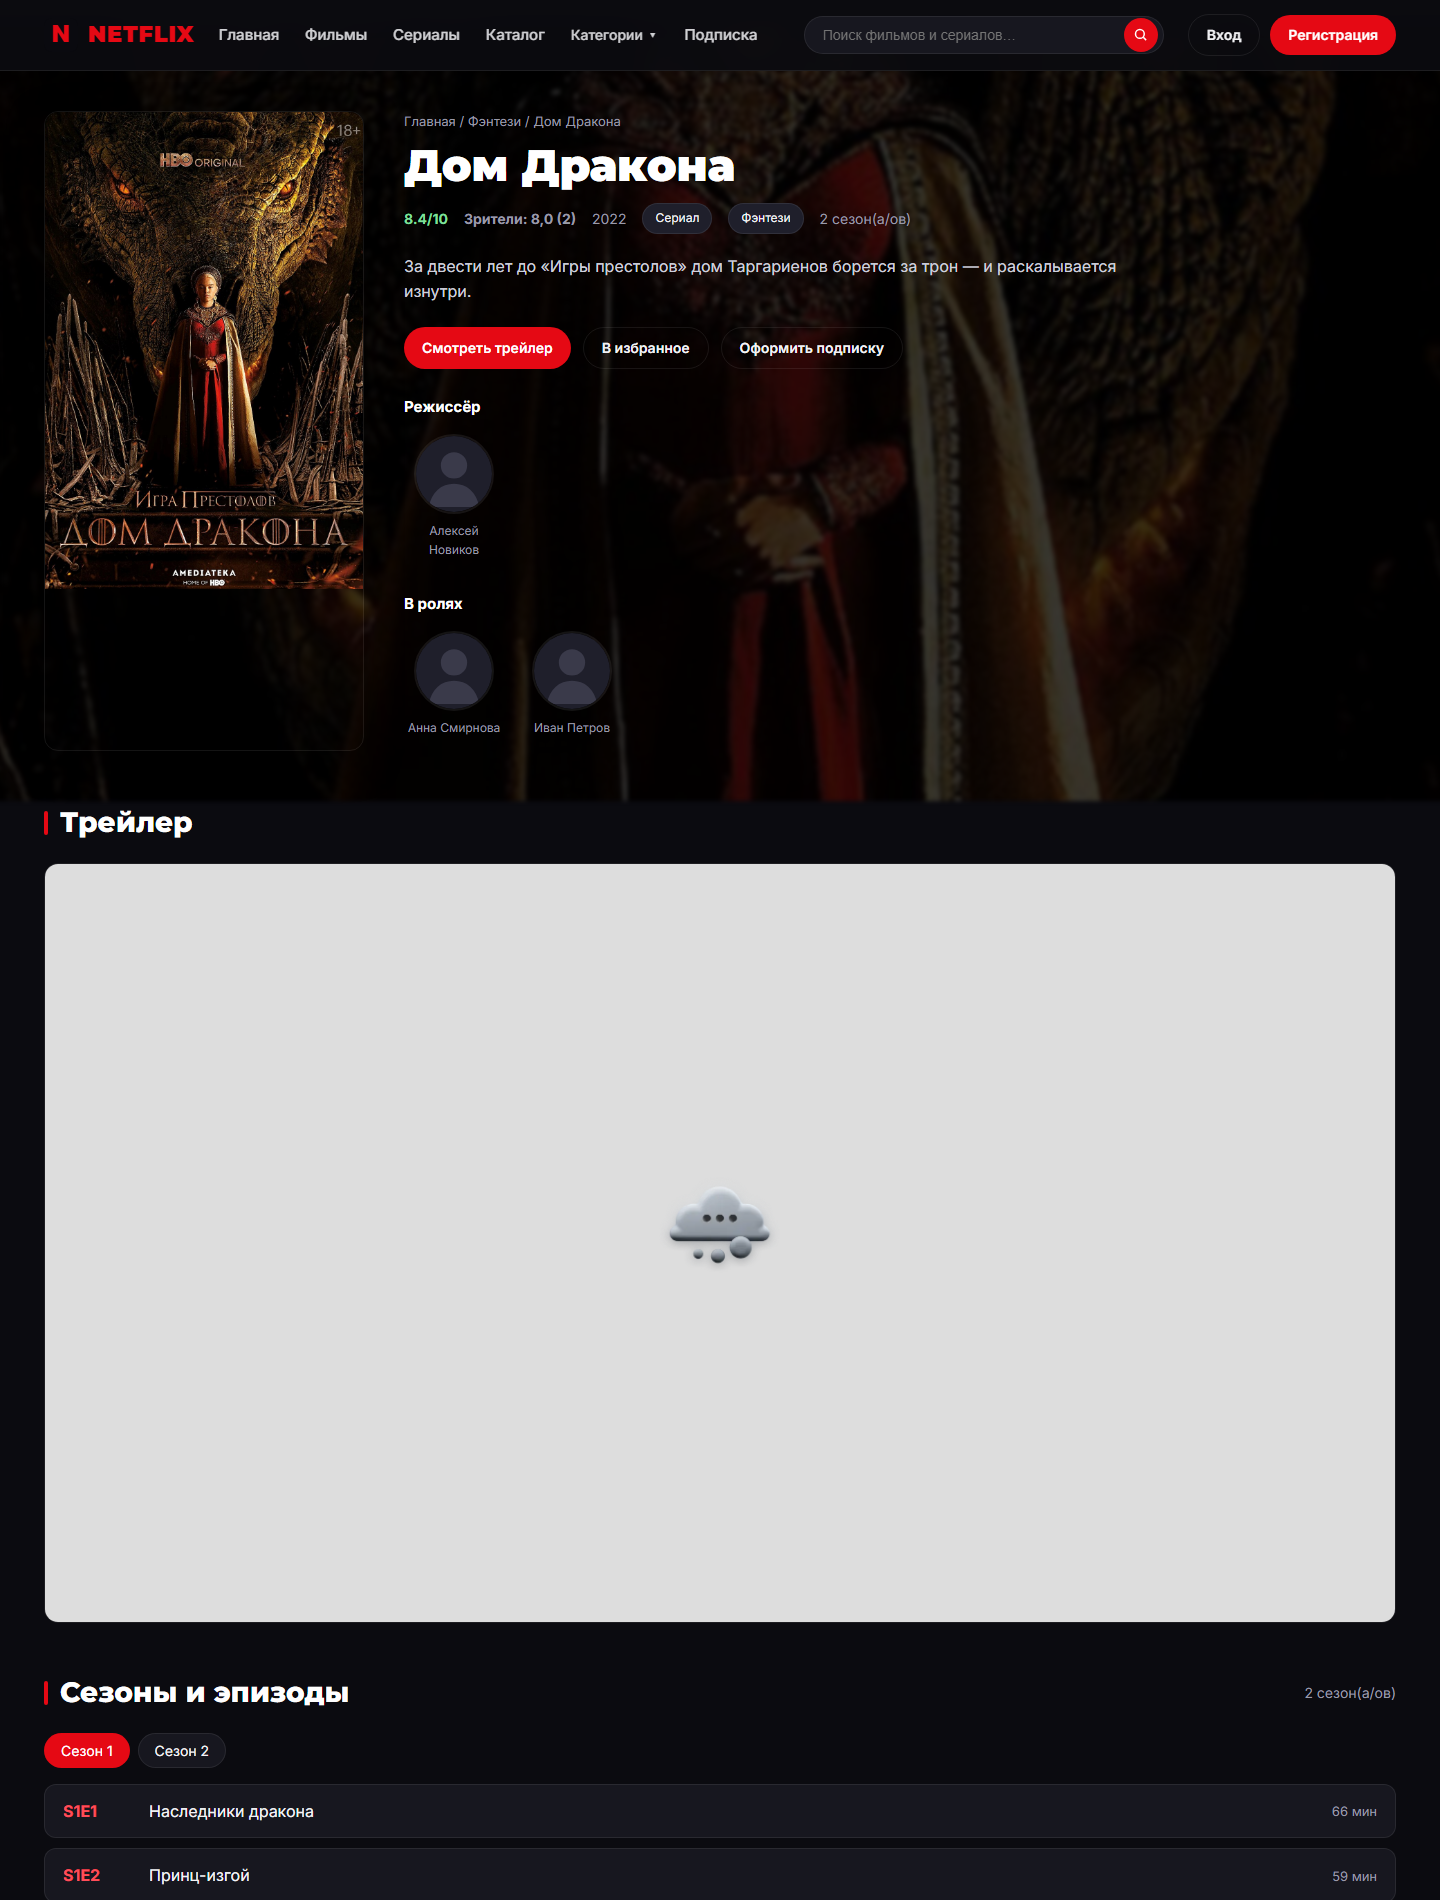
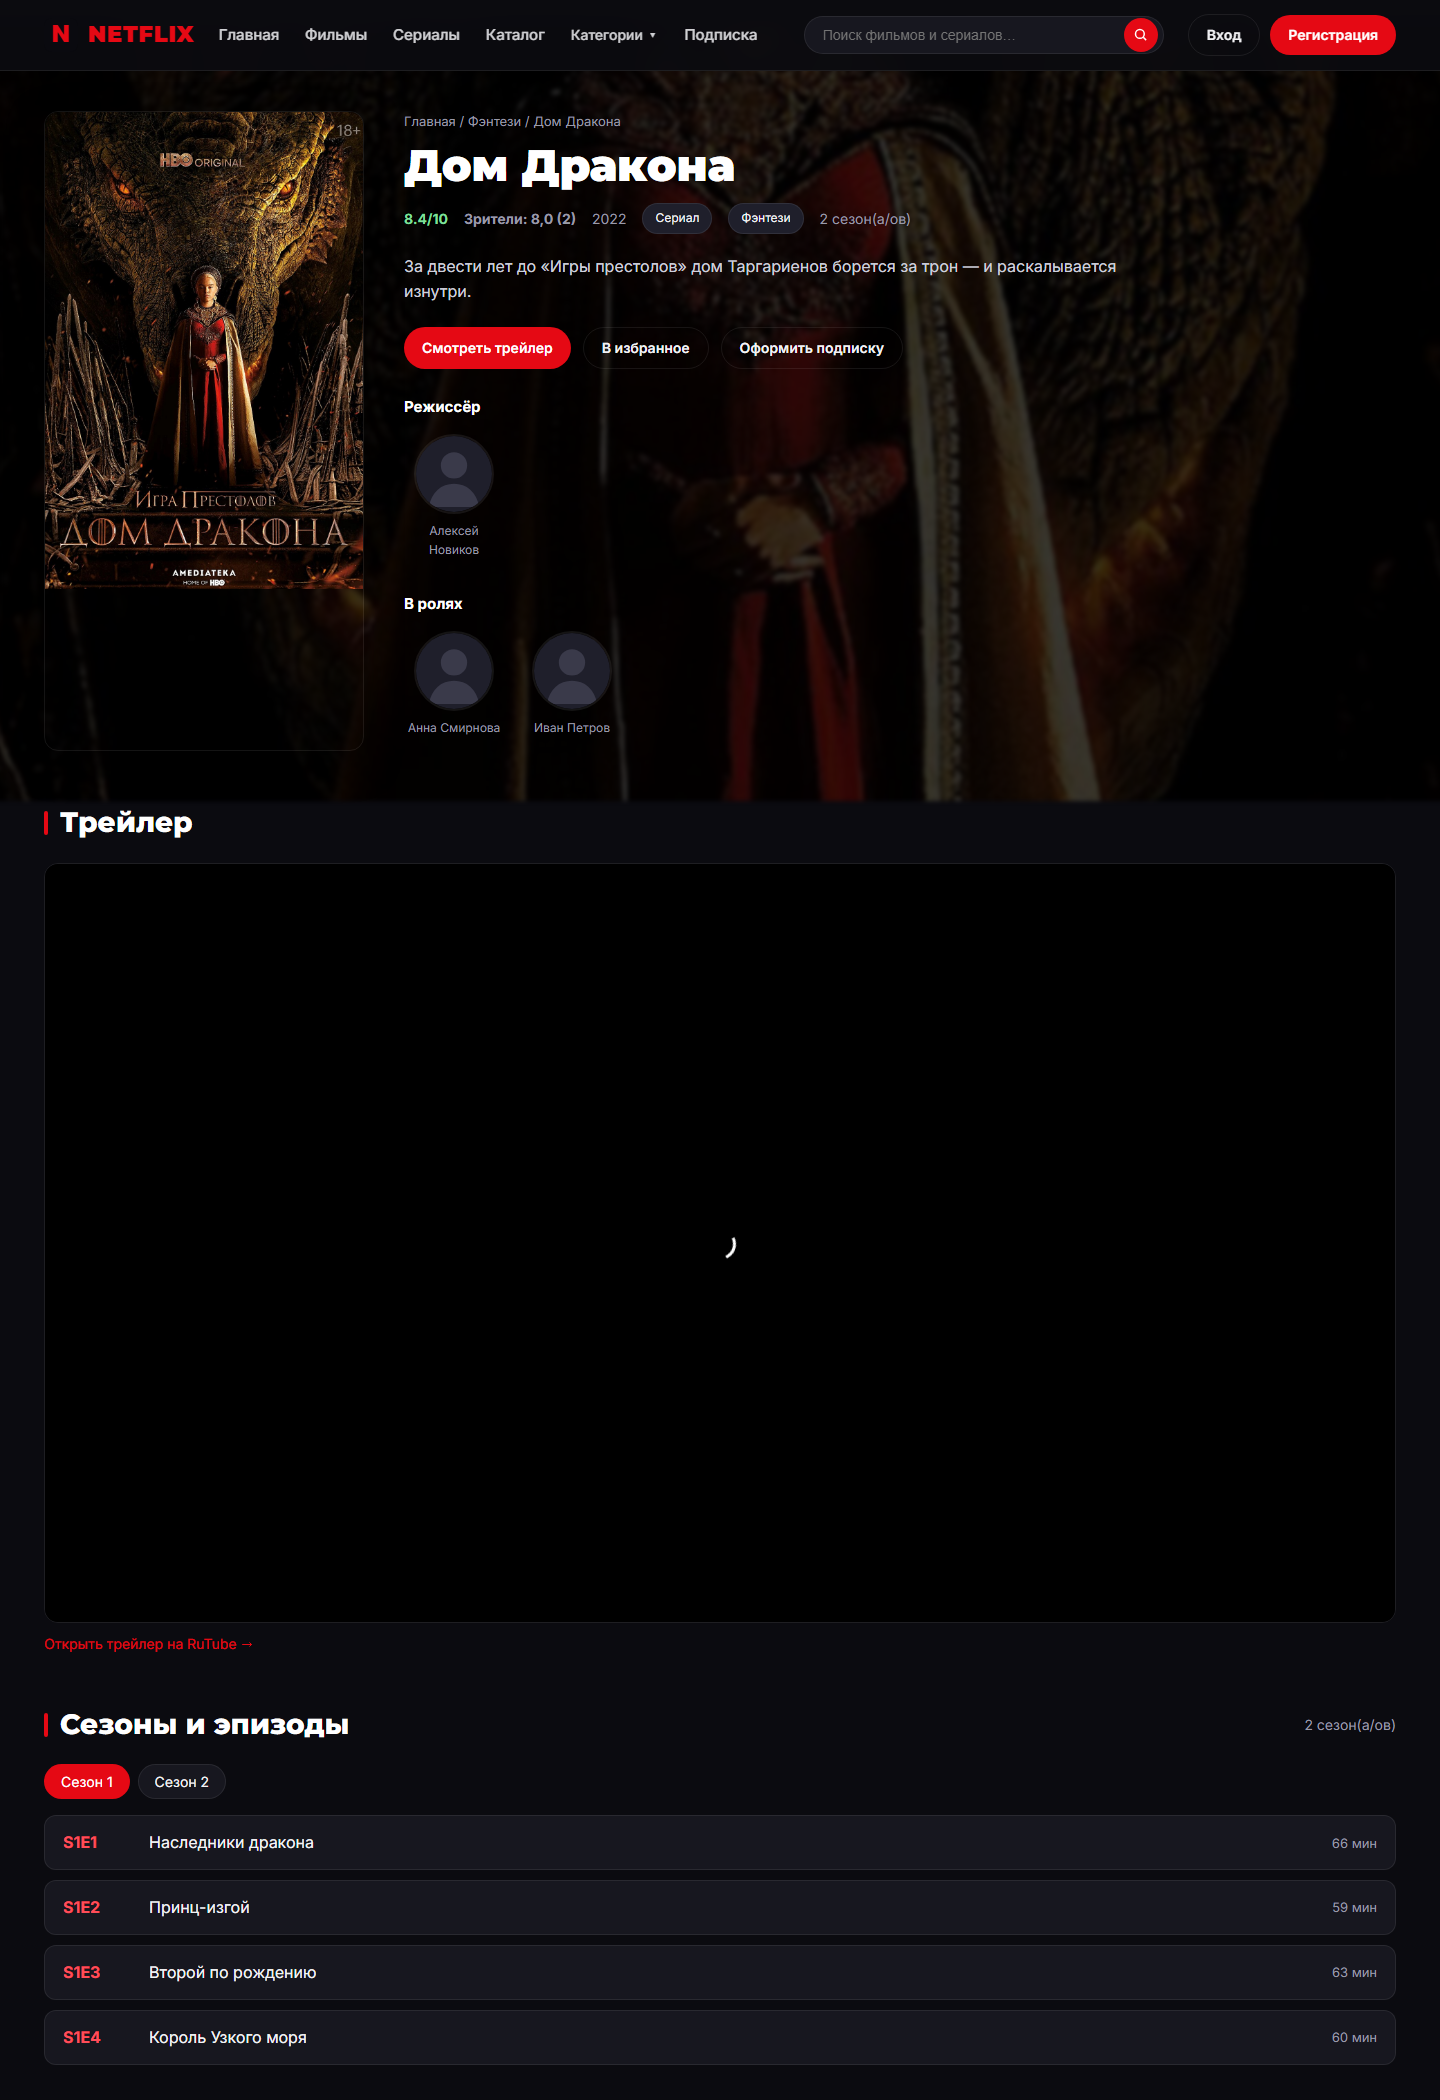
Трейлеры переведены на RuTube (YouTube недоступен в РФ); уточнены карточки «Мора» и «Мир Юрского периода»

diff --git a/assets/css/style.css b/assets/css/style.css
@@ -1,4 +1,4 @@
-/* ==========================================================================
+/* ==========================================================================
    NETFLIX — основной файл стилей
    --------------------------------------------------------------------------
    Один внешний CSS подключён ко всем страницам (includes/header.php,
@@ -351,6 +351,9 @@ a.chip:hover{border-color:var(--primary)}
 
 .trailer-box{position:relative;border-radius:var(--radius);overflow:hidden;aspect-ratio:16/9;border:1px solid var(--border)}
 .trailer-box iframe{width:100%;height:100%;border:none}
+.trailer-link{margin-top:10px;font-size:14px}
+.trailer-link a{color:var(--primary)}
+.trailer-link a:hover{text-decoration:underline}
 
 .reviews{display:grid;gap:14px;margin-top:16px}
 .review{background:var(--surface);border:1px solid var(--border);border-radius:12px;padding:16px 18px}
@@ -680,3 +683,4 @@ a.chip:hover{border-color:var(--primary)}
   .receipt > div{flex-direction:column;gap:2px}
   .receipt b{text-align:left}
 }
+

diff --git a/content.php b/content.php
@@ -223,11 +223,19 @@ require 'includes/header.php';
 <?php if ($item['trailer']): ?>
 <section class="section" id="trailer">
     <div class="section-head"><h2 class="section-title">Трейлер</h2></div>
+    <?php
+    // Трейлеры размещены на RuTube: сервис доступен в РФ без обходных путей.
+    // Ссылка «Открыть на RuTube» — запасной вариант, если встраивание заблокировано.
+    $trailerWatchUrl = str_replace('/play/embed/', '/video/', (string)$item['trailer']);
+    ?>
     <div class="trailer-box">
         <iframe src="<?= e($item['trailer']) ?>" title="Трейлер «<?= e($item['title']) ?>»"
-                allow="accelerometer; autoplay; clipboard-write; encrypted-media; gyroscope; picture-in-picture"
+                allow="clipboard-write; autoplay; fullscreen"
                 allowfullscreen loading="lazy"></iframe>
     </div>
+    <p class="trailer-link">
+        <a href="<?= e($trailerWatchUrl) ?>" target="_blank" rel="noopener noreferrer">Открыть трейлер на RuTube →</a>
+    </p>
 </section>
 <?php endif; ?>
 

diff --git a/README.md b/README.md
@@ -108,7 +108,7 @@ C:\OSPanel\modules\PHP\PHP_8.1\php.exe -S 127.0.0.1:8099 -t C:\OSPanel\domains\l
 ### Страница фильма и сериала (`content.php?id=N`)
 - Постер, описание, рейтинг, средняя оценка зрителей, категория, длительность.
 - Режиссёры и актёры из БД.
-- Трейлер (embed-ссылка из БД).
+- Трейлер: официальный ролик на RuTube (embed-ссылка хранится в БД; YouTube в РФ недоступен).
 - Похожие тайтлы той же категории и типа.
 - Для сериала — сезоны и эпизоды с переключением.
 - Отзывы и оценка 1–10 (только после входа, с CSRF-защитой).
@@ -219,8 +219,11 @@ NETFLIX/
 
 ## Ограничения
 
+- Трейлеры открываются с RuTube: без интернета плеер не загрузится, но на странице есть прямая ссылка на ролик.
 - Платёжная система не подключена по-настоящему: используется тестовый шлюз
   `gateway.php` (см. комментарии в коде и плашку «Тестовый режим» на странице оплаты).
 - Бренд сайта — NETFLIX, хотя по методичке компания называется Illuminos.
 - Постеры — локальные файлы `assets/img/posters/*.jpg` (демонстрационные материалы; права принадлежат правообладателям). Фоны — сгенерированные SVG.
+
+
 
